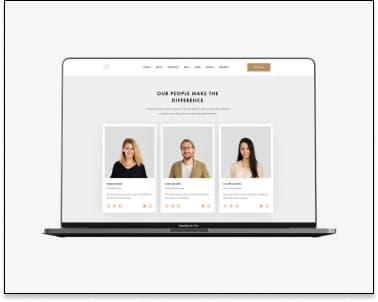
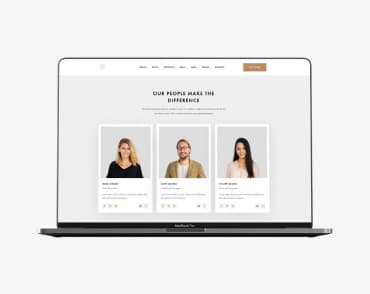
finish

diff --git a/index.html b/index.html
@@ -45,13 +45,13 @@
         </div>
     </header>
     <main class="main">
-        <section class="hero section-margin">
+        <section class="hero section">
             <div class="container">
                 <h1 class="hero-title">Ефективні рішення для вашого бізнесу</h1>
                 <button class="hero-btn" type="button">Замовити послугу</button>
             </div>
         </section>
-        <section class="features section-margin">
+        <section class="features section">
             <div class="container">
                 <h2 class="features-main-title">Наші особливості</h2>
                 <ul class="features-list section-gap">
@@ -85,7 +85,7 @@
                 </ul>
             </div>
         </section>
-        <section class="development section-margin">
+        <section class="development section">
             <div class="container">
                 <h2 class="section-title">Чим ми займаємося</h2>
                 <ul class="development-list section-gap">
@@ -101,27 +101,27 @@
                 </ul>
             </div>
         </section>
-        <section class="team section-padding">
+        <section class="team section">
             <div class="container">
                 <h2 class="section-title">Наша команда</h2>
                 <ul class="team-list section-gap">
                     <li class="team-item">
-                        <img src="./images/igor.jpg" width="270" alt="Спеціаліст Ігор Дем'яненко">
+                        <img class="team-img" src="./images/igor.jpg" width="270" alt="Спеціаліст Ігор Дем'яненко">
                         <h3 class="team-name">Ігор Дем'яненко</h3>
                         <p class="team-text">Product Designer</p>
                     </li>
                     <li class="team-item">
-                        <img src="./images/olga.jpg" width="270" alt="Спеціаліст Ольга Рєпіна">
+                        <img class="team-img" src="./images/olga.jpg" width="270" alt="Спеціаліст Ольга Рєпіна">
                         <h3 class="team-name">Ольга Рєпіна</h3>
                         <p class="team-text">Frontend Developer</p>
                     </li>
                     <li class="team-item">
-                        <img src="./images/mikola.jpg" width="270" alt="Спеціаліст Микола Тарасов">
+                        <img class="team-img" src="./images/mikola.jpg" width="270" alt="Спеціаліст Микола Тарасов">
                         <h3 class="team-name">Микола Тарасов</h3>
                         <p class="team-text">Marketing</p>
                     </li>
                     <li class="team-item">
-                        <img src="./images/mihaylo.jpg" width="270" alt="Спеціаліст Михайло Єрмаков">
+                        <img class="team-img" src="./images/mihaylo.jpg" width="270" alt="Спеціаліст Михайло Єрмаков">
                         <h3 class="team-name">Михайло Єрмаков</h3>
                         <p class="team-text">UI Designer</p>
                     </li>

diff --git a/css/styles.css b/css/styles.css
@@ -46,6 +46,7 @@ img {
   height: auto;
 }
 /* Container */
+
 .container {
   width: 1200px;
   padding-left: 15px;
@@ -123,7 +124,10 @@ img {
 }
 /* Main */
 /* Hero sections */
-
+.section {
+  padding-top: 94px;
+  padding-bottom: 94px;
+}
 .hero {
   background: var(--bcgnd-hero-color);
   color: var(--main-hero-color);
@@ -178,6 +182,7 @@ img {
 }
 .features-item {
   list-style: none;
+  width: 270px;
 }
 .features-title {
   font-size: 14px;
@@ -190,6 +195,9 @@ img {
 .features-text {
   line-height: 1.71;
   letter-spacing: 0.03em;
+}
+.features {
+  padding-bottom: 0;
 }
 /* Development sections */
 .development {
@@ -206,20 +214,20 @@ img {
   list-style: none;
 }
 /* Team sections */
-.section-padding {
-  padding-top: 94px;
-  padding-bottom: 94px;
-}
+
 .team {
   background: var(--bcgnd-team-color);
 }
-
+.team-img {
+  margin-bottom: 30px;
+}
 .team-item {
   list-style: none;
   background: var(--bcgnd-color);
   box-shadow: 0px 1px 3px rgba(0, 0, 0, 0.12), 0px 1px 1px rgba(0, 0, 0, 0.14),
     0px 2px 1px rgba(0, 0, 0, 0.2);
   border-radius: 0px 0px 4px 4px;
+  padding-bottom: 30px;
 }
 .team-name {
   font-weight: 500;
@@ -228,7 +236,6 @@ img {
   text-align: center;
   letter-spacing: 0.03em;
   color: var(--tittle-text-color);
-  padding-top: 30px;
   margin-bottom: 10px;
 }
 .team-text {
@@ -236,7 +243,6 @@ img {
   line-height: 1.19;
   text-align: center;
   letter-spacing: 0.03em;
-  padding-bottom: 30px;
 }
 /* Footer */
 .footer {
@@ -344,6 +350,7 @@ img {
   letter-spacing: 0.06em;
 
   color: var(--tittle-text-color);
+  margin-bottom: 4px;
 }
 .galery-text {
   font-size: 16px;

diff --git a/portfolio.html b/portfolio.html
@@ -45,7 +45,7 @@
         </div>
     </header>
     <main class="main">
-        <section class="filter section-padding">
+        <section class="filter section">
             <div class="container">
                 <h1 class="galery-title">Галерея наших проектів</h1>
                 <ul class="filter-list">
